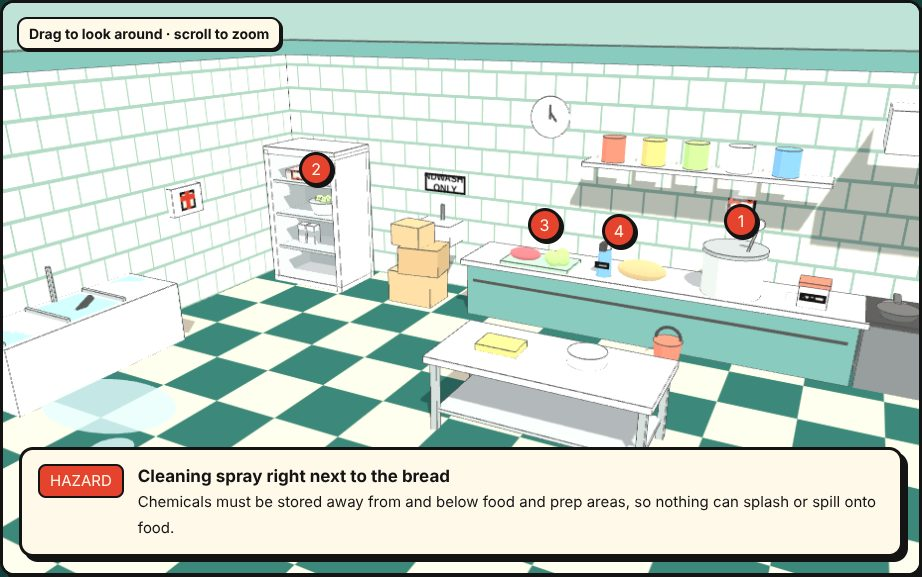
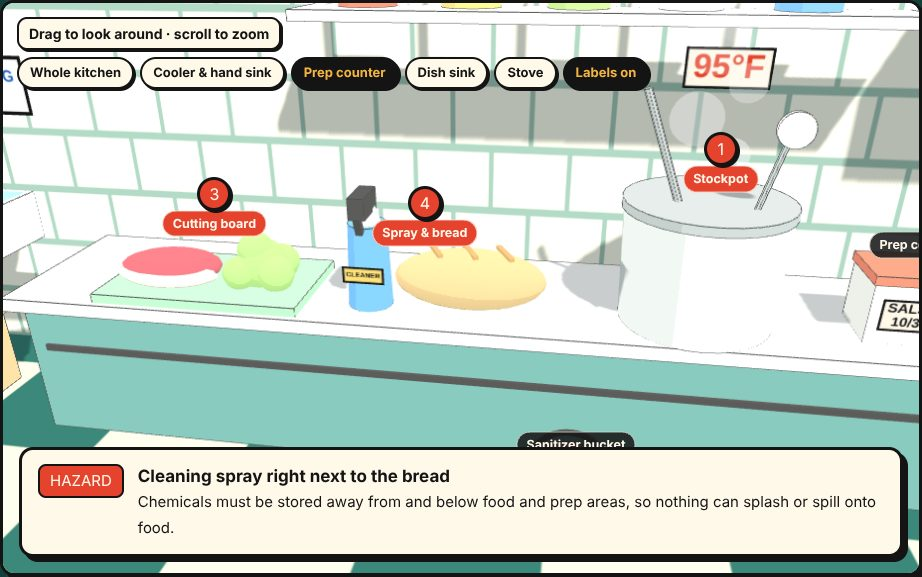
Add Pulse screenshots and refresh Line Check images

diff --git a/assets/style.css b/assets/style.css
@@ -287,3 +287,13 @@ p{margin:0}
 .quickjump a:hover{background:var(--sand)}
 @media (max-width:860px){.range{grid-template-columns:1fr 1fr}.rt,.rt.wide{grid-column:span 1}.about{grid-template-columns:1fr}}
 @media (max-width:560px){.range{grid-template-columns:1fr}}
+
+.feature.pulse{background:#FFFFFF;border:1px solid #E2E5EA;color:#161A22}
+.feature.pulse .media{background:#F4F5F7}
+.feature.pulse h3{font-family:"Instrument Sans",system-ui,sans-serif;font-weight:700;letter-spacing:-.02em;color:#5B2A86}
+.feature.pulse .muted,.feature.pulse .facts span{color:#5A6272}
+.feature.pulse .tag{background:#EFE7F7;color:#5B2A86}
+.feature.pulse .facts{border-top-color:#E2E5EA}
+.feature.pulse .btn{background:#5B2A86;color:#fff}
+.feature.pulse .btn.ghost{background:#fff;color:#161A22;border-color:#E2E5EA}
+.rt-data p{margin-top:6px}
